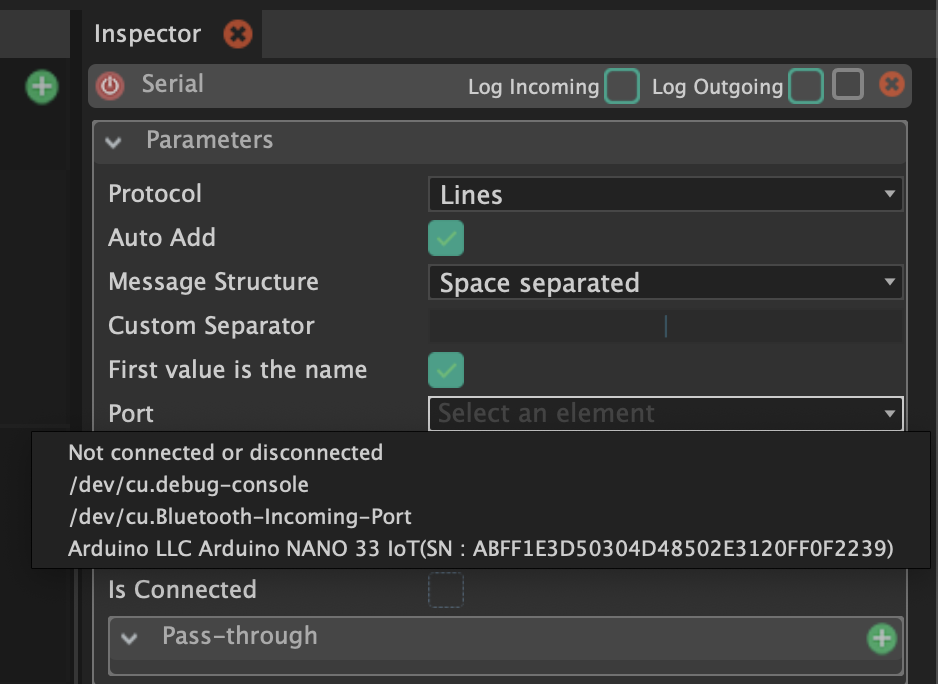
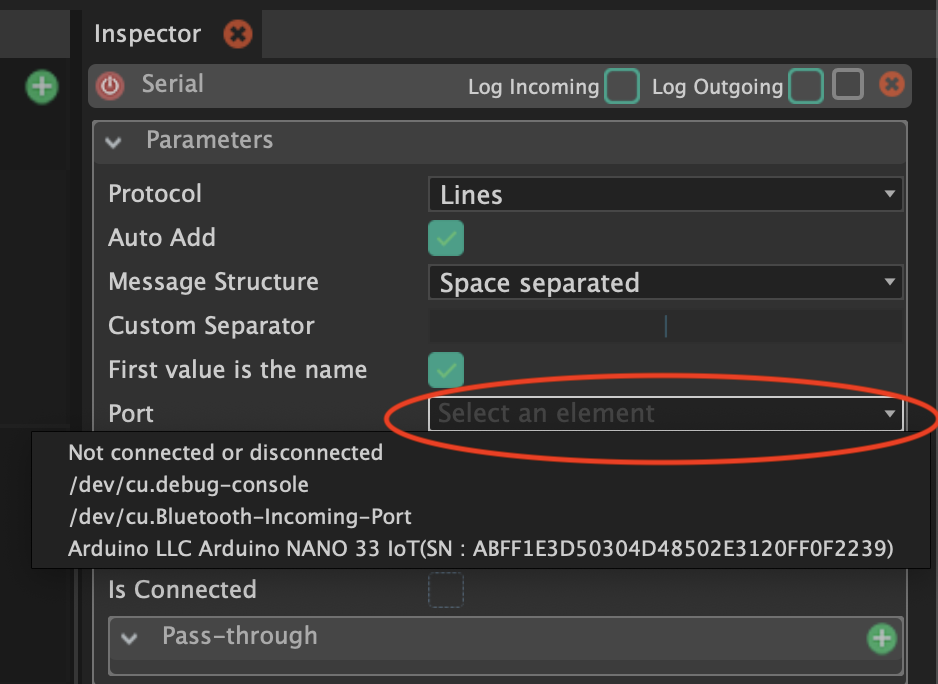
adding examples

Changed region(s): [[0.4019, 0.5219, 0.9584, 0.7061], [0.9584, 0.5833, 1.0, 0.6447]]

diff --git a/Arduino/Chataigne/Chataigne.html b/Arduino/Chataigne/Chataigne.html
@@ -315,7 +315,7 @@ void loop() {
 <p>With the module selected, find the port drop down menu in the
 inspector window:</p>
 <p><img src="./images/port.png"></p>
-<p>Select the port that your Arduino is connected to.</p>
+<p>And select the port that your Arduino is connected to.</p>
 <blockquote class="info">
 <span class="uk-label">Note</span>
 <p>
@@ -330,7 +330,36 @@ If you don’t, you might see this error message:
 <p>Click the action state again:</p>
 <p><img src="./images/action.png"></p>
 <p>And navigate to the inspector window:</p>
+<p>Locate the “From Input Value” window inside “Conditions”. If you
+still have the Keyboard keystroke listening input, remove it with the
+“x” button on the top right.</p>
+<p><img src="./images/remove_keyboard.png"></p>
+<p><img src="./images/serial_input.png"></p>
 <p><img src="./images/input.png"></p>
+<p>If you check the “Learn” box, it will automatically attempt to listen
+to any input reading, and assume that this is the interaction you want
+(the sensor that you want to use).</p>
+<p><img src="./images/learn.png"></p>
+<p>It has found that there is a value <strong>A</strong> being received,
+followed by a number.</p>
+<p>Pressing your button will result in the input window highlighting in
+green when the condition is met.</p>
+<p>Here you can change the condition operation. In my case, it by
+default made the condition of:</p>
+<p><img src="./images/condition.png"></p>
+<p><code>if A is equal to 1.000, then trigger something</code></p>
+<p>This button makes it easy to create a toggle. When button is pressed,
+the state is toggled. In other words, like a light switch.</p>
+<p><img src="./images/toggle.png"></p>
+<hr />
+<p>Now for the consequence:</p>
+<p>The setup for playing an audio file is exactly the same as when we
+did it for the keyboard press!</p>
+<p>Notice that you can also do something if the condition is FALSE. For
+example, you can play one sound when condition is TRUE (buttonState is 1
+or HIGH), and another when condition is FALSE (buttonState is 0 or
+LOW).</p>
+<p><img src="./images/truefalse.png"></p>
 </section>
 </div>
 </section>

diff --git a/Arduino/Chataigne/Chataigne.md b/Arduino/Chataigne/Chataigne.md
@@ -92,7 +92,7 @@ With the module selected, find the port drop down menu in the inspector window:
 
 <img src="./images/port.png">
 
-Select the port that your Arduino is connected to.
+And select the port that your Arduino is connected to.
 
 <blockquote class="info">
 <span class="uk-label">Note</span>
@@ -108,5 +108,39 @@ Click the action state again:
 
 And navigate to the inspector window:
 
+Locate the "From Input Value" window inside "Conditions". If you still have the Keyboard keystroke listening input, remove it with the "x" button on the top right.
+
+<img src="./images/remove_keyboard.png">
+
+<img src="./images/serial_input.png">
+
 <img src="./images/input.png">
+
+If you check the "Learn" box, it will automatically attempt to listen to any input reading, and assume that this is the interaction you want (the sensor that you want to use).
+
+<img src="./images/learn.png">
+
+It has found that there is a value **A** being received, followed by a number.
+
+Pressing your button will result in the input window highlighting in green when the condition is met.
+
+Here you can change the condition operation. In my case, it by default made the condition of:
+
+<img src="./images/condition.png">
+
+```if A is equal to 1.000, then trigger something```
+
+This button makes it easy to create a toggle. When button is pressed, the state is toggled. In other words, like a light switch.
+
+<img src="./images/toggle.png">
+
+---
+
+Now for the consequence:
+
+The setup for playing an audio file is exactly the same as when we did it for the keyboard press!
+
+Notice that you can also do something if the condition is FALSE. For example, you can play one sound when condition is TRUE (buttonState is 1 or HIGH), and another when condition is FALSE (buttonState is 0 or LOW).
+
+<img src="./images/truefalse.png">
 
